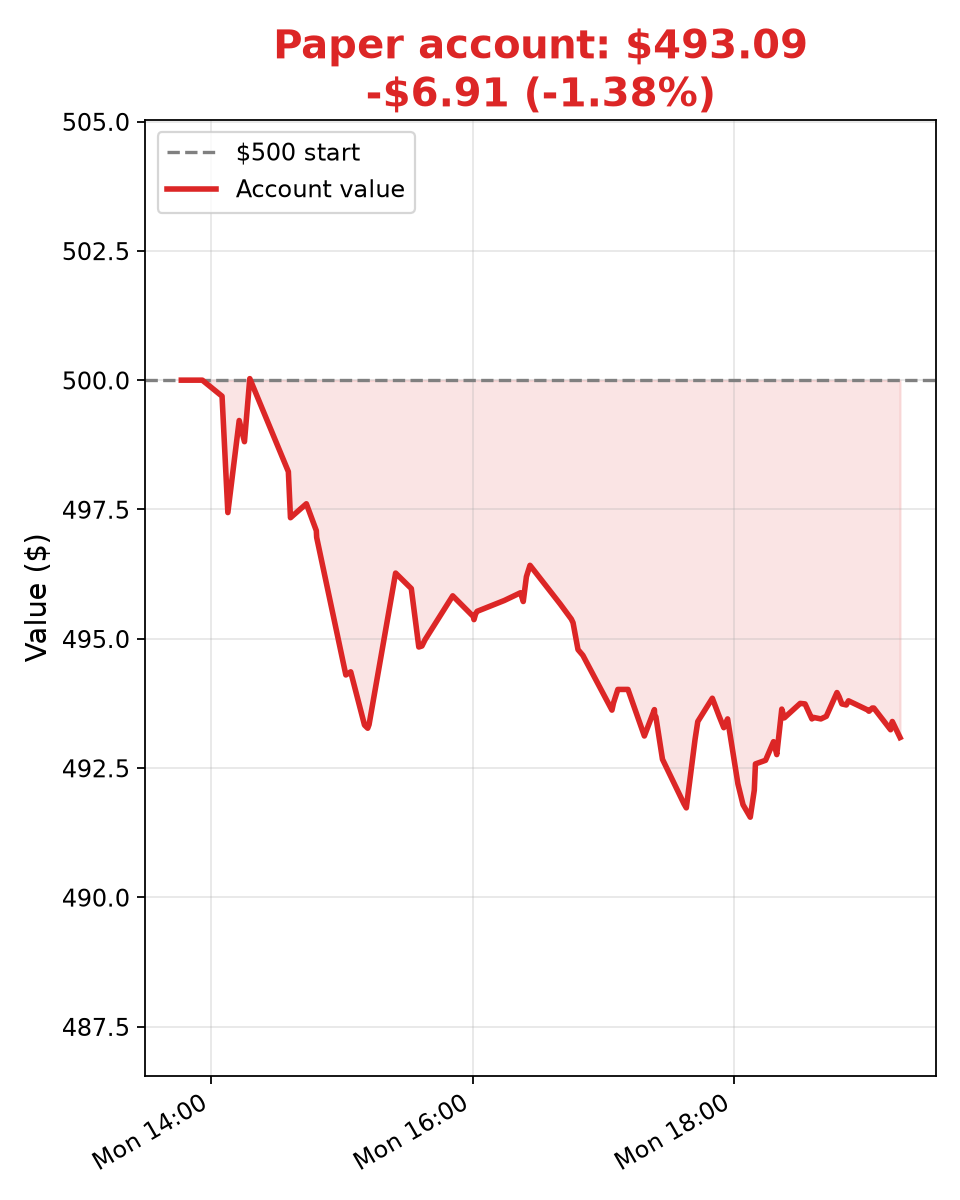
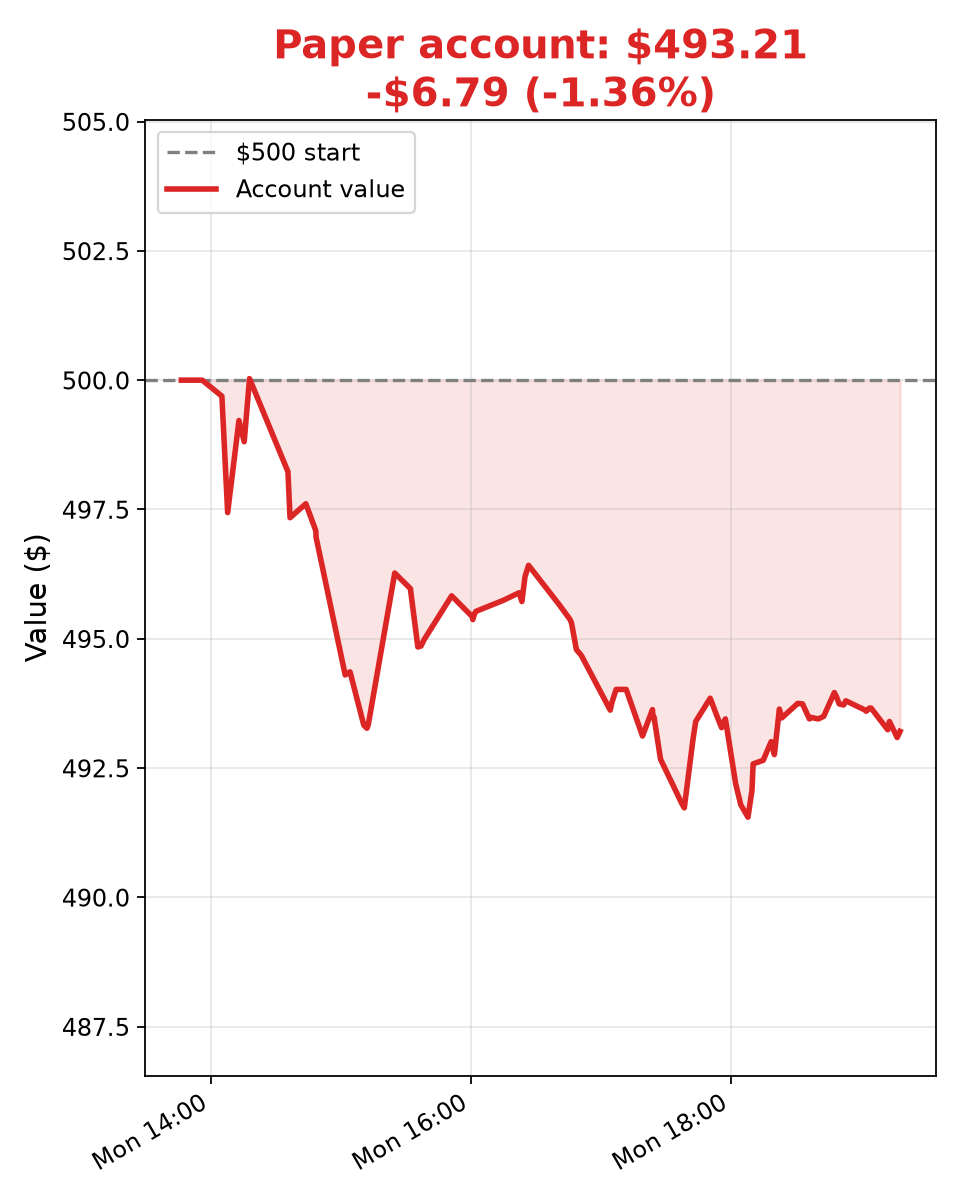
Update 2026-10-12T19:17:51Z

diff --git a/ledger.md b/ledger.md
@@ -122,3 +122,4 @@
 - 2026-10-12T19:12:42Z — total $493.37, cash $196.95 (Bot1 mark, 2:12 PM CT, no trade; FRO 58.82, DHT 25.985 marked; no stops/targets hit — FRO's 19:10 tag of 58.95 rejected on the 14k 19:11 bar, DHT back under ~26.0 shelf; add condition unmet)
 - 2026-10-12T19:12:56Z — total $493.40, cash $196.95 (Bot2 mark, 2:12 PM CT, no trade; FRO 58.83, DHT 25.985 marked; no stops/targets hit — FRO rejected the 19:10 poke to 58.95 back to 58.83, DHT still under the ~26.0 shelf at 25.985; both underwater vs entry, cash idle, no fresh catalyst)
 - 2026-10-12T19:16:30Z — total $493.09, cash $196.95 (Stock Bot mark, 2:16 PM CT, no trade; FRO 58.775, DHT 25.955 marked; no stops/targets hit — FRO sliding off the 19:10 58.95 rejection, DHT under the ~26.0 shelf on a 16k 19:15 bar; SPY 777.31 near LOD 777.05)
+- 2026-10-12T19:17:50Z — total $493.21, cash $196.95 (Bot4 mark, 2:17 PM CT, no trade; FRO 58.76, DHT 25.985 marked; no stops/targets hit — FRO drifting lower after the 19:10 58.95 rejection, ~0.14 under the ~58.9 lid; DHT bounced off 25.94 (19:15) but still under the ~26.0 shelf and 26.35 entry; SPY 777.24 near LOD 777.05; cash idle, no fresh catalyst)
